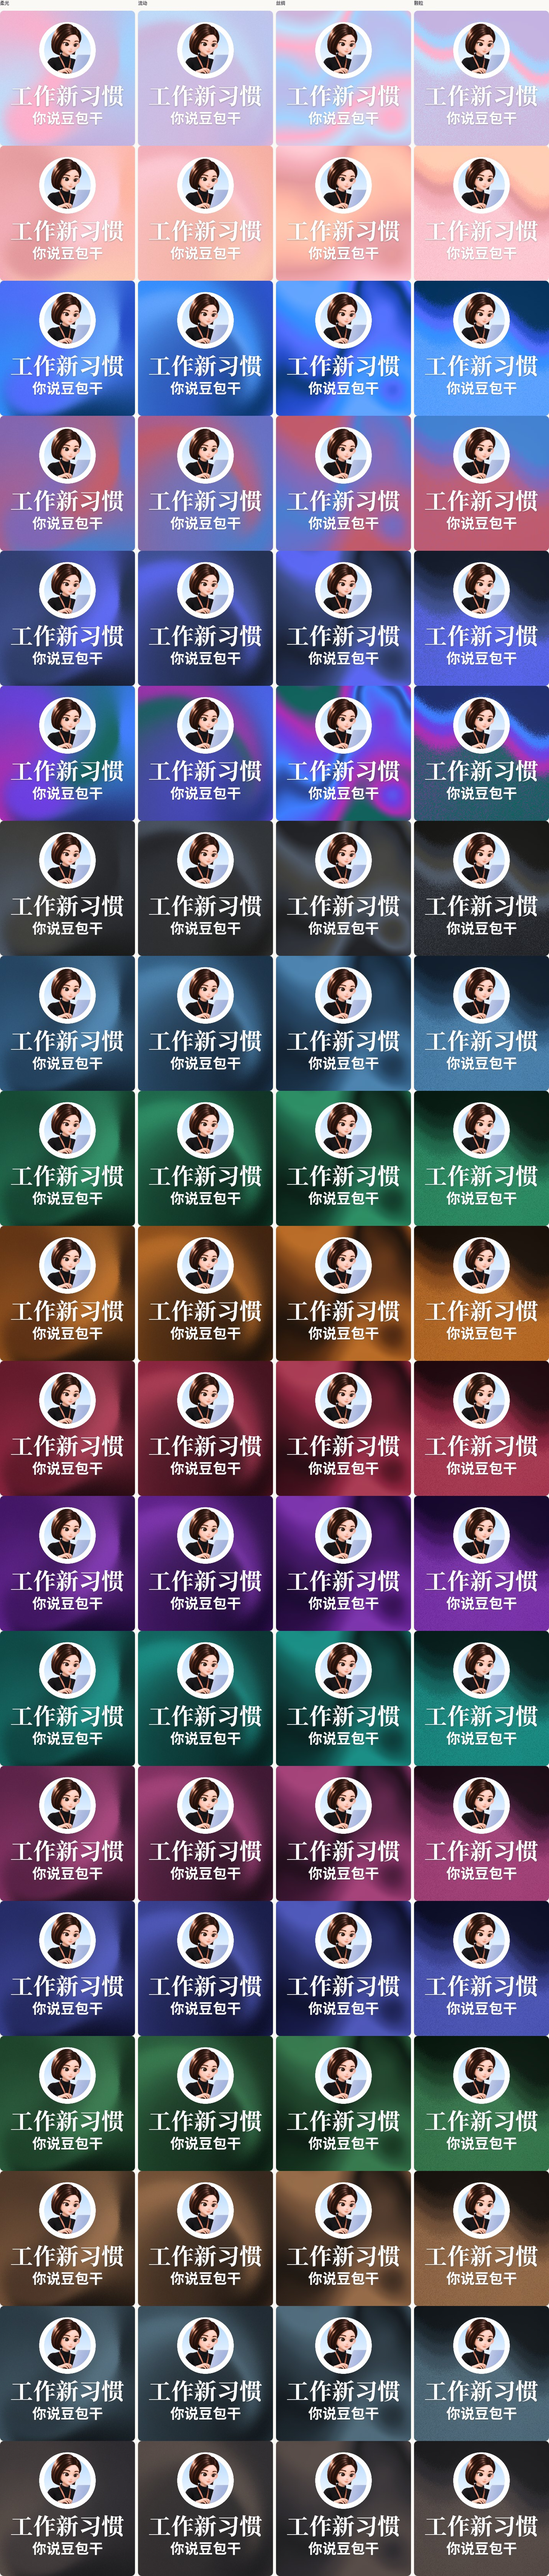
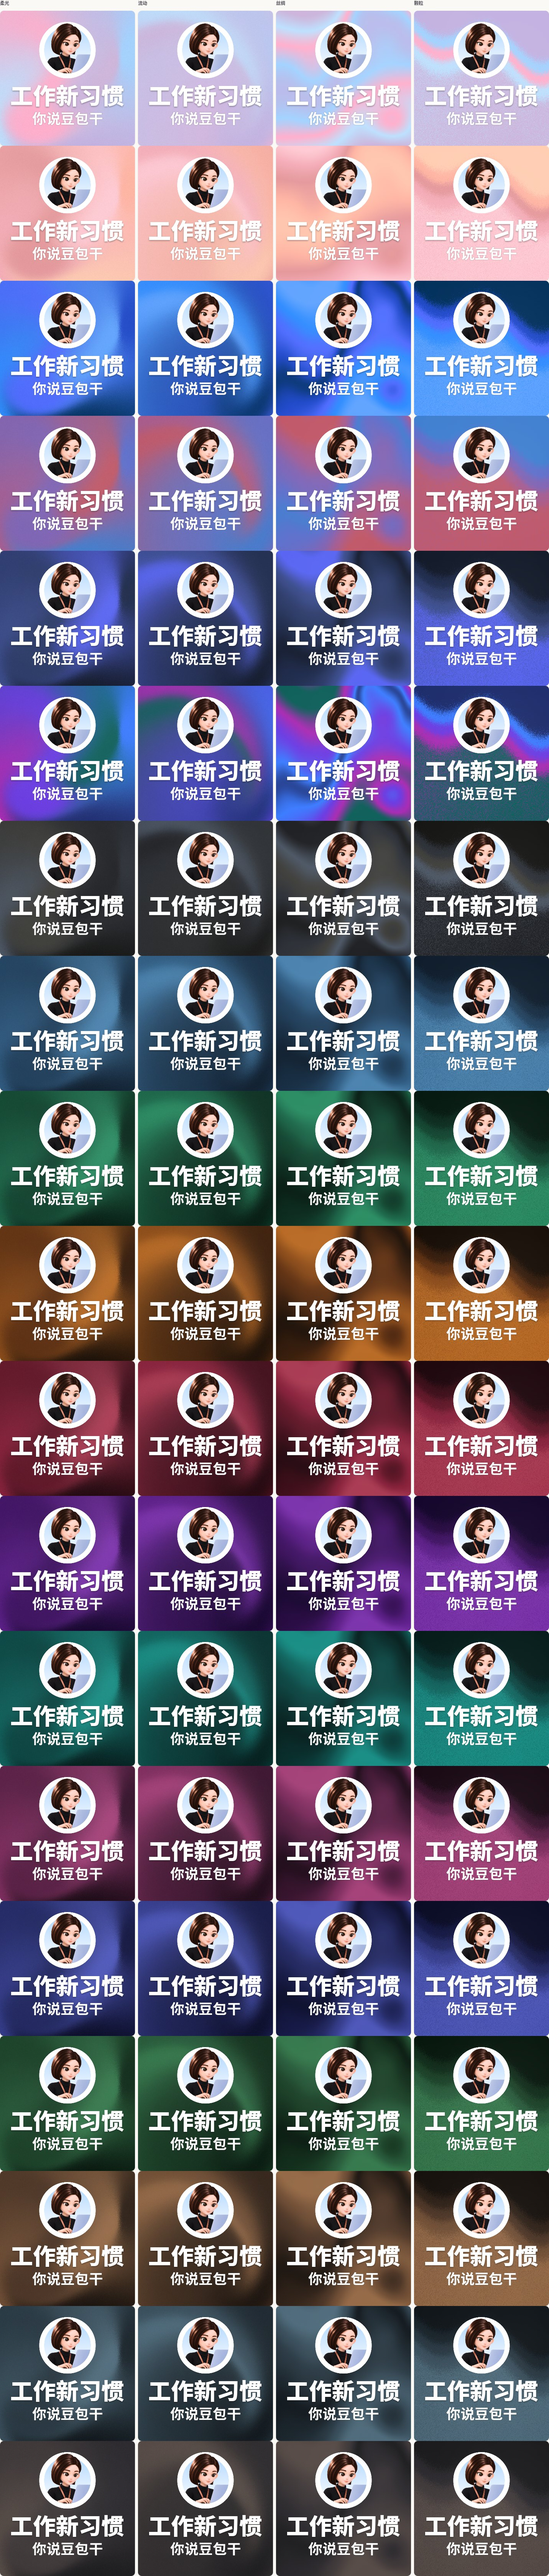
fix: 默认主行改用最重黑体并内置真实字重

diff --git a/e2e/desktop.spec.ts b/e2e/desktop.spec.ts
@@ -108,6 +108,16 @@ test('改文字后可以用键盘撤销与重做', async ({ page }) => {
   await expect(page.locator('#avatar-text-second')).toHaveValue('你说豆包干')
   expect((await probeConfig(page)).typography.effect).toBe('shadow')
   expect((await probeConfig(page)).typography.effectStrength).toBe(0.4)
+  expect((await probeConfig(page)).typography.line1.font).toEqual({
+    family: 'Noto Sans SC',
+    source: 'google',
+    weight: 900,
+  })
+  expect((await probeConfig(page)).typography.line2.font).toEqual({
+    family: 'Noto Sans SC',
+    source: 'google',
+    weight: 700,
+  })
   expect((await probeConfig(page)).layout.icon).toEqual({
     source: 'brand',
     id: 'doubao-work',
@@ -566,6 +576,16 @@ test('顶栏设置菜单里恢复默认，确认后回到默认档', async ({ pa
   await expect(page.locator('#avatar-text-second')).toHaveValue('你说豆包干')
   expect((await probeConfig(page)).typography.effect).toBe('shadow')
   expect((await probeConfig(page)).typography.effectStrength).toBe(0.4)
+  expect((await probeConfig(page)).typography.line1.font).toEqual({
+    family: 'Noto Sans SC',
+    source: 'google',
+    weight: 900,
+  })
+  expect((await probeConfig(page)).typography.line2.font).toEqual({
+    family: 'Noto Sans SC',
+    source: 'google',
+    weight: 700,
+  })
   expect((await probeConfig(page)).layout.icon).toEqual({
     source: 'brand',
     id: 'doubao-work',
@@ -694,22 +714,40 @@ test('长文显示小头像可读性提示，缩短后消失', async ({ page }) 
   await expect(warning).toHaveCount(0)
 })
 
-test('默认中文粗体在第三方网络不可用时仍从本站加载', async ({ page }) => {
+test('默认中文 900 与副行 700 在第三方网络不可用时从本站加载并导出', async ({ page }) => {
+  test.setTimeout(PROBE_TEST_TIMEOUT_MS)
+  const loaded: string[] = []
+  page.on('response', (response) => {
+    if (response.ok() && /noto-sans-sc-\d+-(700|900)-normal.*\.woff2/.test(response.url()))
+      loaded.push(response.url())
+  })
   await page.route('**/*', (route) =>
     new URL(route.request().url()).hostname === 'localhost' ? route.continue() : route.abort(),
   )
   await page.goto(APP_URL)
   await waitReady(page)
-  await expect
-    .poll(
-      () =>
-        page.evaluate(async () => {
-          const faces = await document.fonts.load('700 32px "Noto Sans SC"', '飞书效率先锋')
-          return faces.length > 0 && faces.every((f) => f.status === 'loaded')
-        }),
-      { timeout: PROBE_TIMEOUT_MS },
-    )
-    .toBe(true)
+  for (const weight of [900, 700]) {
+    await expect
+      .poll(() => loaded.some((url) => url.includes(`-${weight}-normal`)), {
+        timeout: PROBE_TIMEOUT_MS,
+      })
+      .toBe(true)
+  }
+  const config = await probeConfig(page)
+  expect(config.typography.line1.font).toEqual({
+    family: 'Noto Sans SC',
+    source: 'google',
+    weight: 900,
+  })
+  expect(config.typography.line2.font).toEqual({
+    family: 'Noto Sans SC',
+    source: 'google',
+    weight: 700,
+  })
+  const download = page.waitForEvent('download')
+  await page.locator('[data-slot="export-action"]').click()
+  expect((await download).suggestedFilename()).toMatch(/\.jpg$/)
+  expect((await probeEncode(page)).bytes).toBeGreaterThan(0)
   await expect(page.getByText(/Noto Sans SC没加载成功/)).toHaveCount(0)
 })
 

diff --git a/tests/app/workspace.smoke.test.tsx b/tests/app/workspace.smoke.test.tsx
@@ -531,12 +531,12 @@ describe('挑选栏 · 逐行字体', () => {
     const follow = fontField(container, 2).querySelector('[data-slot="font-follow"]')!
     expect(follow.getAttribute('aria-pressed')).toBe('true')
 
-    const trigger = screen.getByRole('button', { name: 'Line 2 font Noto Serif SC' })
+    const trigger = screen.getByRole('button', { name: 'Line 2 font Noto Sans SC' })
     expect(trigger).toBe(fontTrigger(container, 2))
-    expect(trigger.getAttribute('title')).toBe('Noto Serif SC')
+    expect(trigger.getAttribute('title')).toBe('Noto Sans SC')
     const name = document.getElementById(trigger.getAttribute('aria-labelledby')!.split(' ')[1]!)!
     expect(name.className).toContain('text-muted-foreground')
-    expect(fontTrigger(container, 1).textContent).toContain('Noto Serif SC')
+    expect(fontTrigger(container, 1).textContent).toContain('Noto Sans SC')
   })
 
   it('第一行字重下拉写第一行，第二行仍跟随', async () => {
@@ -676,7 +676,7 @@ describe('FontPickerPanel', () => {
     useAvatarStore.setState({ past: [] })
     const onDone = panel(2)
     const checked = document.querySelector<HTMLElement>('[cmdk-item][data-checked="true"]')!
-    expect(checked.textContent).toContain('Noto Serif SC')
+    expect(checked.textContent).toContain('Noto Sans SC')
     fireEvent.click(checked)
     expect(onDone).toHaveBeenCalledTimes(1)
     expect(config().typography.line2.font).toBeNull()
@@ -853,7 +853,7 @@ describe('字体名预览', () => {
     const trigger = fontTrigger(container, 1)
     const name = document.getElementById(trigger.getAttribute('aria-labelledby')!.split(' ')[1]!)!
     await waitFor(() => expect(name.getAttribute('data-preview')).toBe('ready'))
-    expect(name.style.fontFamily.startsWith('"fp-noto-serif-sc"')).toBe(true)
+    expect(name.style.fontFamily.startsWith('"fp-noto-sans-sc"')).toBe(true)
     expect(name.lang).toBe('en')
   })
 })
@@ -1004,7 +1004,7 @@ describe('PreviewStage 的字体加载', () => {
     // 第二行没有文字，钉住的字体不加载
     await waitFor(() => expect(loader.loadFontsForConfig).toHaveBeenCalledTimes(1))
     const first = loader.loadFontsForConfig.mock.calls[0]![0]
-    expect(fontJobs(first).map((job) => job.font.family)).toEqual(['Noto Serif SC'])
+    expect(fontJobs(first).map((job) => job.font.family)).toEqual(['Noto Sans SC'])
 
     act(() => {
       useAvatarStore.getState().setConfig({ text: '飞书\n先锋' })

diff --git a/tests/state/config.test.ts b/tests/state/config.test.ts
@@ -62,14 +62,14 @@ describe('normalizeConfig 补默认', () => {
     expect(config.typography).toEqual(DEFAULT_CONFIG.typography)
   })
 
-  it('默认是方形、白色文字、3% 边距、衬线主行与无衬线副行', () => {
+  it('默认是方形、白色文字、3% 边距、黑体 900 主行与 700 副行', () => {
     expect(DEFAULT_CONFIG.canvas.shape).toBe('square')
     expect(DEFAULT_CONFIG.text).toBe('工作新习惯\n你说豆包干')
     expect(DEFAULT_CONFIG.typography.color).toBe('#ffffff')
     expect(DEFAULT_CONFIG.typography.padding).toBe(0.03)
     expect(DEFAULT_CONFIG.typography.lineHeight).toBe(1.03)
     expect(DEFAULT_CONFIG.typography.line1).toEqual({
-      font: { family: 'Noto Serif SC', source: 'google', weight: 700 },
+      font: { family: 'Noto Sans SC', source: 'google', weight: 900 },
       size: null,
       offsetX: 0,
       offsetY: 0,
@@ -485,4 +485,21 @@ describe('nearestWeight', () => {
 it('保留显式旧边距，仅缺失值使用新默认', () => {
   expect(normalizeConfig({ typography: { padding: 0.15 } }).typography.padding).toBe(0.15)
   expect(normalizeConfig({ typography: {} }).typography.padding).toBe(0.03)
+})
+
+it('旧衬线主行和同家族不同字重不被新默认迁移', () => {
+  const old = { family: 'Noto Serif SC', source: 'google' as const, weight: 700 as const }
+  expect(normalizeConfig({ typography: { line1: { font: old } } }).typography.line1.font).toEqual(
+    old,
+  )
+  const fresh = normalizeConfig({})
+  expect(fresh.typography.line1.font.weight).toBe(900)
+  expect(fresh.typography.line2.font).toEqual({
+    family: 'Noto Sans SC',
+    source: 'google',
+    weight: 700,
+  })
+  expect(
+    normalizeConfig({ typography: { line2: { font: null } } }).typography.line2.font,
+  ).toBeNull()
 })

diff --git a/tests/fonts/loader.test.ts b/tests/fonts/loader.test.ts
@@ -368,16 +368,20 @@ describe('默认超时', () => {
   })
 })
 
-it('默认中文粗体优先使用本站字体，无需注入外部样式表', async () => {
+it.each([700, 900] as const)('中文 %i 字重优先使用本站字体，无需注入外部样式表', async (weight) => {
   Object.defineProperty(document.fonts, Symbol.iterator, {
     configurable: true,
     value: function* () {
-      yield { family: 'Noto Sans SC', weight: '700' }
+      yield { family: 'Noto Sans SC', weight: String(weight) }
     },
   })
   fontsLoad.mockResolvedValue([{ status: 'loaded' }])
-  const result = await loadOne(config({ family: 'Noto Sans SC' }, '产品研发'))
+  const result = await loadOne(config({ family: 'Noto Sans SC', weight }, '产品研发'))
   expect(result?.via).toBe('bundled')
   expect(result?.ok).toBe(true)
   expect(hrefs).toEqual([])
+})
+
+it('同家族 900/700 两行分别生成字体任务', () => {
+  expect(fontJobs(normalizeConfig({})).map((job) => job.font.weight)).toEqual([900, 700])
 })

diff --git a/src/fonts/loader.ts b/src/fonts/loader.ts
@@ -236,7 +236,7 @@ async function loadGoogleFont(
 
   // 默认字体来自本站，首次排版不依赖 Google/CDN 的可达性。
   if (
-    (font.family === 'Noto Sans SC' && weight === 700) ||
+    (font.family === 'Noto Sans SC' && [700, 900].includes(weight)) ||
     (font.family === 'Noto Serif SC' && [600, 700].includes(weight))
   ) {
     const local = await withTimeout(
@@ -244,7 +244,8 @@ async function loadGoogleFont(
         if (font.family === 'Noto Serif SC') {
           if (weight === 600) await import('@fontsource/noto-serif-sc/600.css')
           else await import('@fontsource/noto-serif-sc/700.css')
-        } else await import('@fontsource/noto-sans-sc/700.css')
+        } else if (weight === 900) await import('@fontsource/noto-sans-sc/900.css')
+        else await import('@fontsource/noto-sans-sc/700.css')
         const set = globalThis.document?.fonts
         if (
           !set ||

diff --git a/tests/text/fit.test.ts b/tests/text/fit.test.ts
@@ -249,7 +249,8 @@ describe('逐行字体', () => {
     const result = fit({ text: '飞书\n先锋', typography: { line2: { font: kuaile } } })
     expect(result.secondary?.font).toContain('"ZCOOL KuaiLe"')
     expect(result.secondary?.font.startsWith('400 ')).toBe(true)
-    expect(result.primary?.font).toContain('"Noto Serif SC"')
+    expect(result.primary?.font).toContain('900')
+    expect(result.primary?.font).toContain('"Noto Sans SC"')
   })
 
   it('第一行为空时晋升的那一行用第二行的生效字体', () => {

diff --git a/tests/app/locale-defaults.test.tsx b/tests/app/locale-defaults.test.tsx
@@ -45,7 +45,7 @@ describe('统一默认内容与语言边界', () => {
     await waitFor(() => expect(activeLocale).toBe(locale))
     expect(config().text).toBe('工作新习惯\n你说豆包干')
     expect(config().layout.icon).toEqual({ source: 'brand', id: 'doubao-work', mono: false })
-    expect(config().typography.line1.font.family).toBe('Noto Serif SC')
+    expect(config().typography.line1.font.family).toBe('Noto Sans SC')
     expect(config().typography.line2.font?.family).toBe('Noto Sans SC')
   })
 

diff --git a/src/state/config.ts b/src/state/config.ts
@@ -199,7 +199,7 @@ export const DEFAULT_CONFIG: AvatarConfig = {
   typography: {
     line1: {
       // 共享中文默认字体，也是 normalizeConfig 的兜底值。
-      font: { family: 'Noto Serif SC', source: 'google', weight: 700 },
+      font: { family: 'Noto Sans SC', source: 'google', weight: 900 },
       size: null,
       offsetX: 0,
       offsetY: 0,

diff --git a/docs/audits/2026-11-21-default-sans.md b/docs/audits/2026-11-21-default-sans.md
@@ -1,0 +1,24 @@
+# 第一行默认最重黑体验收
+
+基线 v8.13.1 / 89e3c35。本轮仅将网页 DEFAULT_CONFIG 的第一行 family/weight 改为 Noto Sans SC 900，并增加本站 900 CSS/WOFF2 按需加载。第二行 Noto Sans SC 700、其余默认项、自动排版源码、CLI/MCP 固定 700 契约未变。显式旧字体和第二行跟随设置不迁移。
+
+## 字体与真实渲染
+
+@fontsource/noto-sans-sc 5.3.1 的 119 中文分片，经 fontTools 解码 OS/2：700 文件 usWeightClass=700，900 文件 usWeightClass=900；均含 277 个字形。900 SHA256 为 bbafc5587c9f292652792382de63dc53a0dde769345d66165cde788ba23870af，700 为 805c2b453c8ccf9a67dc6e02bc452a4936c22f1cbc8571965f3b932553840338。并非合成加粗。
+
+使用现有 audit-legibility.mjs 在 Chromium 中走真实字体、布局与导出合成链路，1024 画布测量。对照旧配置仅显式传入 Serif 700，布局算法相同。所有主副行和图形 unsafe/clipped 均为 0。
+
+|组合|主行字号，新/旧|48px 主行墨迹高，新/旧|48px 主行 alpha 质量，新/旧|48px 副行墨迹高|
+|---|---|---|---|---|
+|默认豆包双行|173.35/173.55|7.78/7.69|156.38/108.90|4.78/4.78|
+|东黎双行|228.35/228.85|10.36/10.13|230.20/137.29|6.33/6.33|
+
+主行视觉明显更厚；副行字体、字重没有变化，实际位置和字号随主行字体度量的变化有正常微调。默认组合主行距内安全圆最小余量 6.05px（1024 坐标），东黎主行 22.53px。查看完整图与 24/32/40/48/64px 圆裁：无裁字，主副层级保留；24px 仍受物理像素限制。默认豆包组合的副行仍触发 48px 小字提示；东黎双行不触发。以上是模拟尺寸，非飞书客户端实测。
+
+## 工程验收
+
+新建浏览器档案封锁全部站外请求：首次、显式旧 Serif 700 存档、重置和 JPG 导出均成功。捕获本站数字编号中文分片 900/700 HTTP 成功响应；首次 9 个字体请求，含旧字体再重置场景 13 个。1024 JPG 编码分别为 98,293 / 102,200 字节。第二行全程为 Sans 700。
+
+4 张标准样张已重建查看，16 张桌面/iPhone 15/iPhone SE 深浅主题、完整页和导出面板截图均已查看，无新增溢出。`npm run ci` 通过：939 项单测、网页构建、3 项服务单测、服务构建、7 项真实服务集成及 89 项桌面/手机 E2E。lint、格式与类型检查通过。生产产物在推送后独立核验，不以本地通过代替线上证据。
+
+私有过程证据位于 /workspace/avatar-sans，未纳入公开仓库。本轮不涉及私有截图或账号信息。使用说明、架构、布局及自动化文档同步；项目记忆无新增长期偏好，文档债务无新增。

diff --git a/specs/v8.13.2-default-sans/spec.md b/specs/v8.13.2-default-sans/spec.md
@@ -1,0 +1,15 @@
+# 第一行默认黑体最重字重
+
+状态：已封存。基线 89e3c35 / v8.13.1。
+
+用户仅修改网页第一行默认字体：Noto Sans SC 900；第二行仍为 Noto Sans SC 700。其他默认配置、自动排版算法和显式存档不变。首次、缺失字段和重置使用新默认；不按旧值猜测迁移用户选择。
+
+安装的 @fontsource/noto-sans-sc 5.3.1 元数据支持 100–900，含独立 900 CSS/WOFF2；为 900 增加本站按需加载，保留 Sans 700 与 Serif 600/700。必须验证真实字重文件及网络响应，禁止只凭 CSS 声明推断。
+
+CLI/MCP v1 独立默认 serif / sans、固定 700；本次保留，不扩展接口。共享的绘制与配置归一化仍按既有调用约定工作。
+
+验收：完整 CI，默认/重置/显式旧值、同家族不同字重；新浏览器封锁外部字体网络，首次与导出真实加载本站中文 900 和 700 分片；真实渲染与 24/32/40/48/64 px 圆裁、标准样张与界面截图；直接 main＋注解标签发布并核验线上。
+
+## 实到范围
+
+完成规定的网页主行默认与本站 900 字体加载，第二行和其他契约不变；全部本地门禁、真实字体封锁验收、样张和圆裁检查通过。见 [验收记录](../../docs/audits/2026-11-21-default-sans.md) 与 [CHANGELOG](../../CHANGELOG.md)。发布后核对远端与生产产物。

diff --git a/docs/architecture.md b/docs/architecture.md
@@ -38,7 +38,7 @@ flowchart LR
 
 配色选择器使用 `src/palettes/display-order.ts` 的独立显示顺序；原配色清单仍用于查找和随机选择，显示排序不改变随机权重。
 
-网页配置定义在 `src/state/config.ts`。共享默认值集中在 `DEFAULT_CONFIG`；加载时通过 `normalizeConfig` 补缺失字段、校验枚举并限制数值范围。默认内容为「工作新习惯 / 你说豆包干」、豆包工作图标、钢灰深色背景、白色文字、投影 0.4、光感 0.08。主行 Noto Serif SC 700，副行 Noto Sans SC 700。
+网页配置定义在 `src/state/config.ts`。共享默认值集中在 `DEFAULT_CONFIG`；加载时通过 `normalizeConfig` 补缺失字段、校验枚举并限制数值范围。默认内容为「工作新习惯 / 你说豆包干」、豆包工作图标、钢灰深色背景、白色文字、投影 0.4、光感 0.08。主行 Noto Sans SC 900，副行 Noto Sans SC 700。
 
 首次进入和重置采用默认配置。已有存档的显式值保留，包括纯色效果和零强度；缺失效果字段补投影。旧默认与用户主动选择没有独立标记，因此不按值猜测迁移。网页配置与自动化请求格式不同，后者见[自动化指南](automation.md)。
 

diff --git a/docs/usage.md b/docs/usage.md
@@ -41,3 +41,5 @@
 自动字号优先利用圆形安全区；有品牌时保留原稿大小与主副层级，手动字号和位移不被自动改写。48 px 字小提示仅按墨迹高度筛查，消失不等于通过真实聊天客户端可读性认证。长文字仍建议缩短。
 
 配色列表先展示适合白字的可靠深色，冷暖与中性色交错，其后为中等、浅亮和实验色；明暗筛选保留同一顺序。换配色仍保留当前文字色，浅橙等亮底配白字可能对比不足，需要自行调整文字色。
+
+网页首次与恢复默认使用第一行 Noto Sans SC 900、第二行 Noto Sans SC 700，均从本站加载真实字重分片。已有显式字体与字重保留，不自动迁移；副行显式跟随仍跟随主行。CLI/MCP v1 保留独立固定 700 字重契约。
